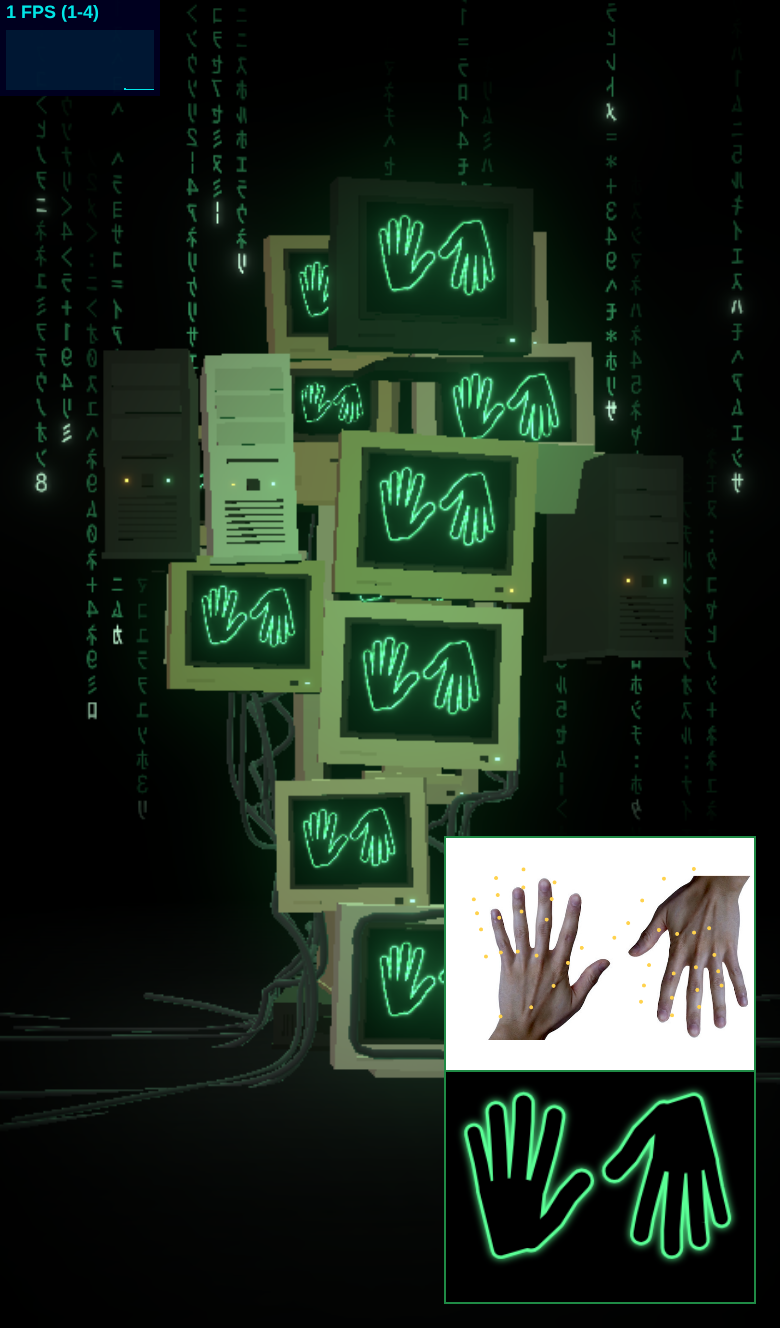
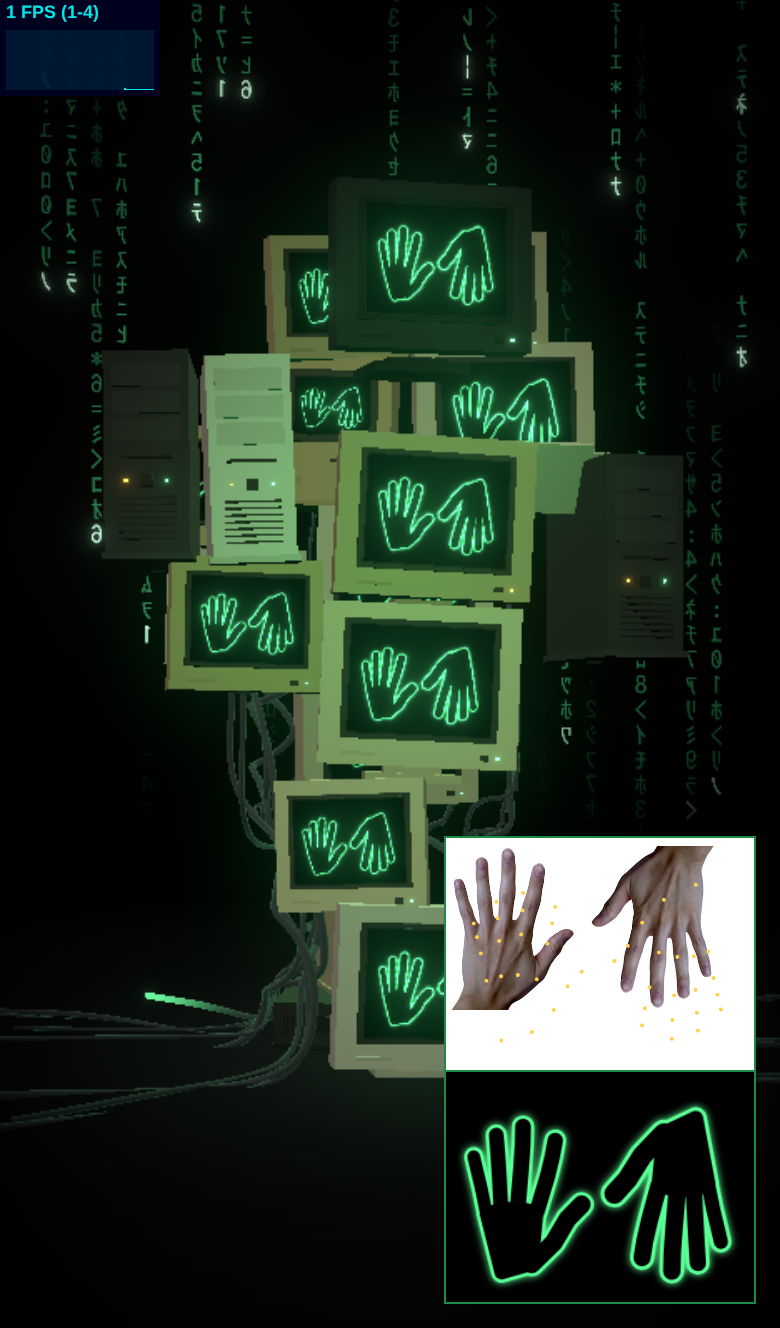
Keep cables off the whole front of every screen unit
The router kept cables out of the air in front of each screen only, so on
the mobile tier a cable could still loop across a monitor's bezel. The
keep-out now covers the unit's whole front face.

Claude-Session: https://claude.ai/code/session_01Jx9jzH1muFp5iQmedXmqrq

diff --git a/src/scene/cableRoutes.ts b/src/scene/cableRoutes.ts
@@ -26,7 +26,7 @@ const ROUTING = {
   /** Share of the way each point moves toward its neighbours' midpoint per iteration. */
   smoothing: 0.3,
   radius: [0.014, 0.03] as const,
-  /** Air in front of a screen that cables keep out of, so none hangs across a hand. */
+  /** Depth of air in front of a screen unit's face that cables keep out of, so none hangs across a monitor. */
   screenKeepOut: 0.5,
 };
 
@@ -61,7 +61,7 @@ function obstacle(unit: number, toWorld: Matrix4, [w, h, d]: readonly [number, n
   return { unit, toWorld, toLocal: toWorld.clone().invert(), w, h, d, center, reach: Math.hypot(w, h, d) / 2 };
 }
 
-/** One box per unit, then one keep-out in front of each screen. Index `i < placements.length` is unit `i`. */
+/** One box per unit, then a keep-out in front of the face of each unit with a screen. Index `i < placements.length` is unit `i`. */
 function obstacles(layout: Layout): Obstacle[] {
   const units = layout.placements.map((p, unit) => {
     const toWorld = new Matrix4().compose(
@@ -71,15 +71,15 @@ function obstacles(layout: Layout): Obstacle[] {
     );
     return obstacle(unit, toWorld, UNITS[p.kind].size);
   });
-  const screens = layout.placements.flatMap((p, unit) => {
-    const screen = UNITS[p.kind].screen;
+  const faces = layout.placements.flatMap((p, unit) => {
+    const { screen, size } = UNITS[p.kind];
     if (!screen) return [];
-    const [x, y, z] = screen.offset;
+    const [w, h, d] = size;
     const depth = ROUTING.screenKeepOut;
-    const toWorld = units[unit]!.toWorld.clone().multiply(new Matrix4().makeTranslation(x, y - screen.h / 2, z + depth / 2));
-    return [obstacle(unit, toWorld, [screen.w, screen.h, depth])];
+    const toWorld = units[unit]!.toWorld.clone().multiply(new Matrix4().makeTranslation(0, 0, d / 2 + depth / 2));
+    return [obstacle(unit, toWorld, [w, h, depth])];
   });
-  return [...units, ...screens];
+  return [...units, ...faces];
 }
 
 const local = new Vector3();
